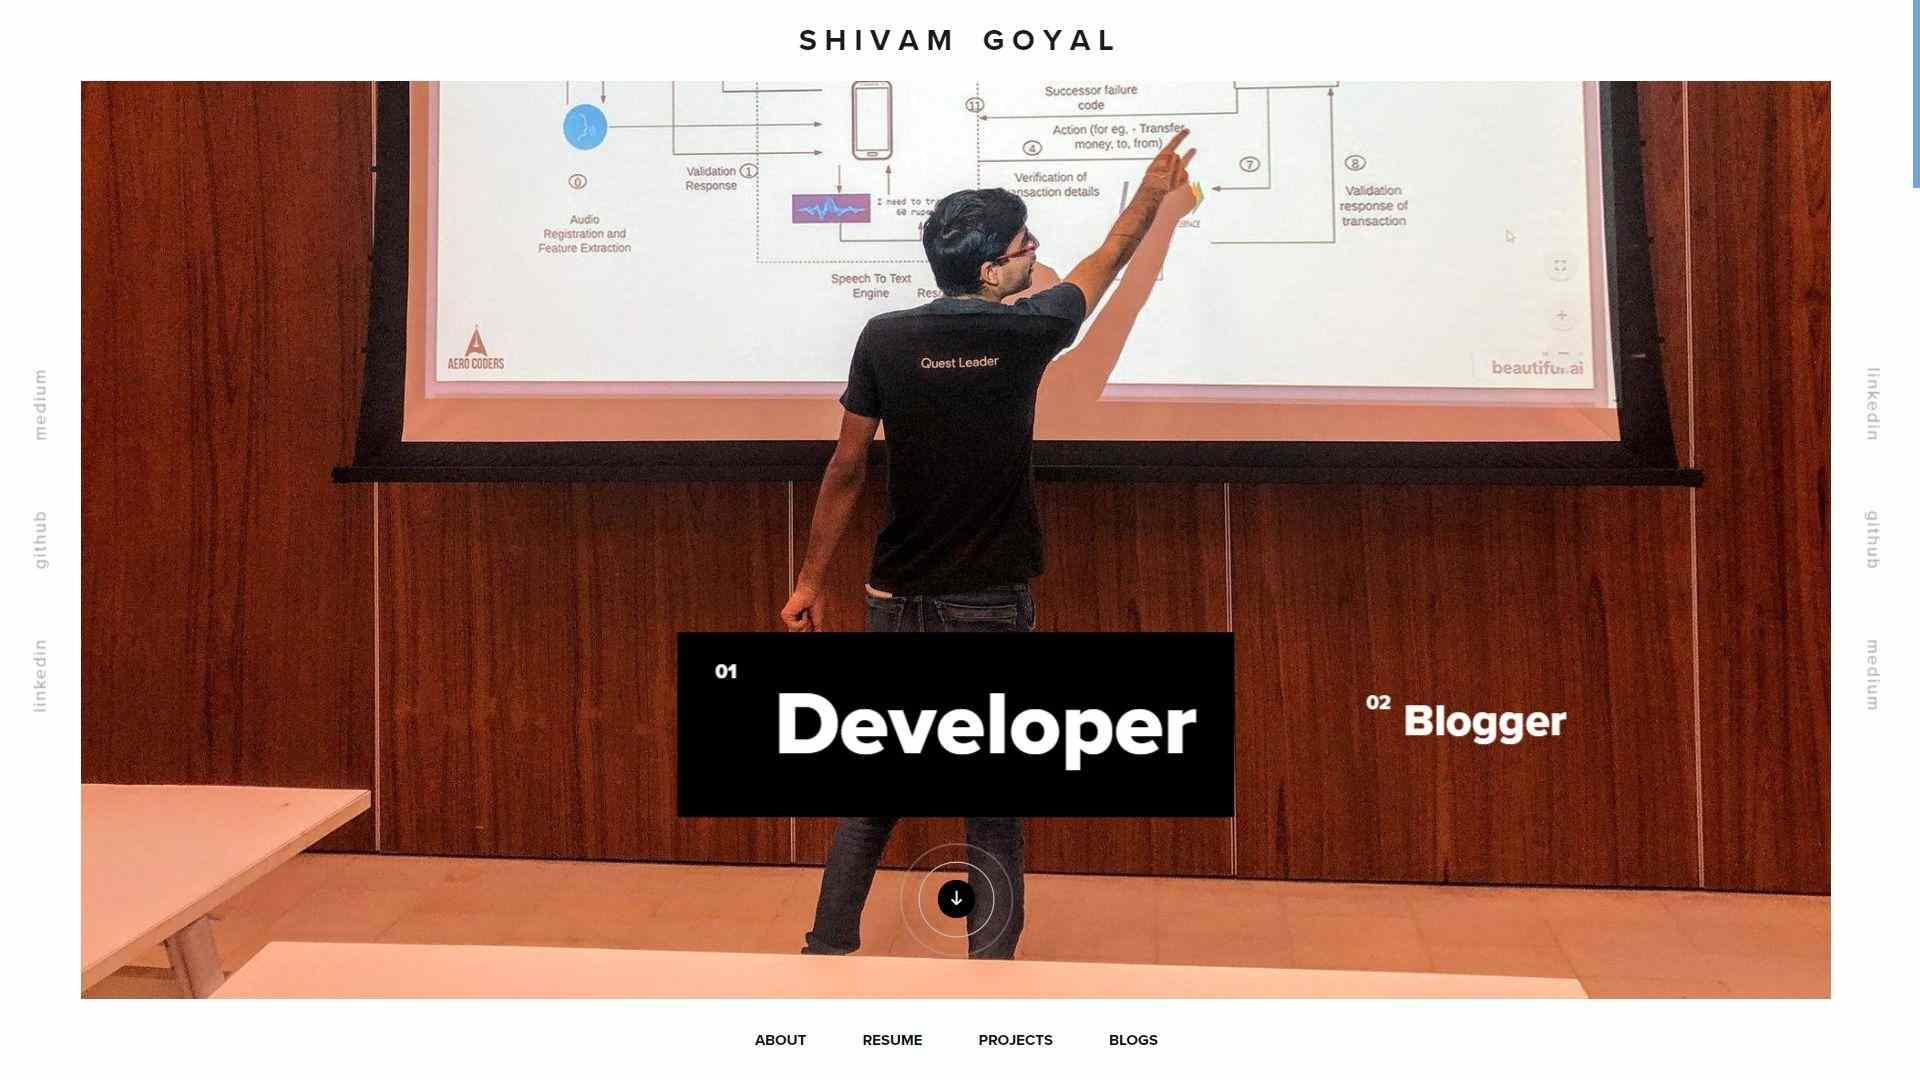
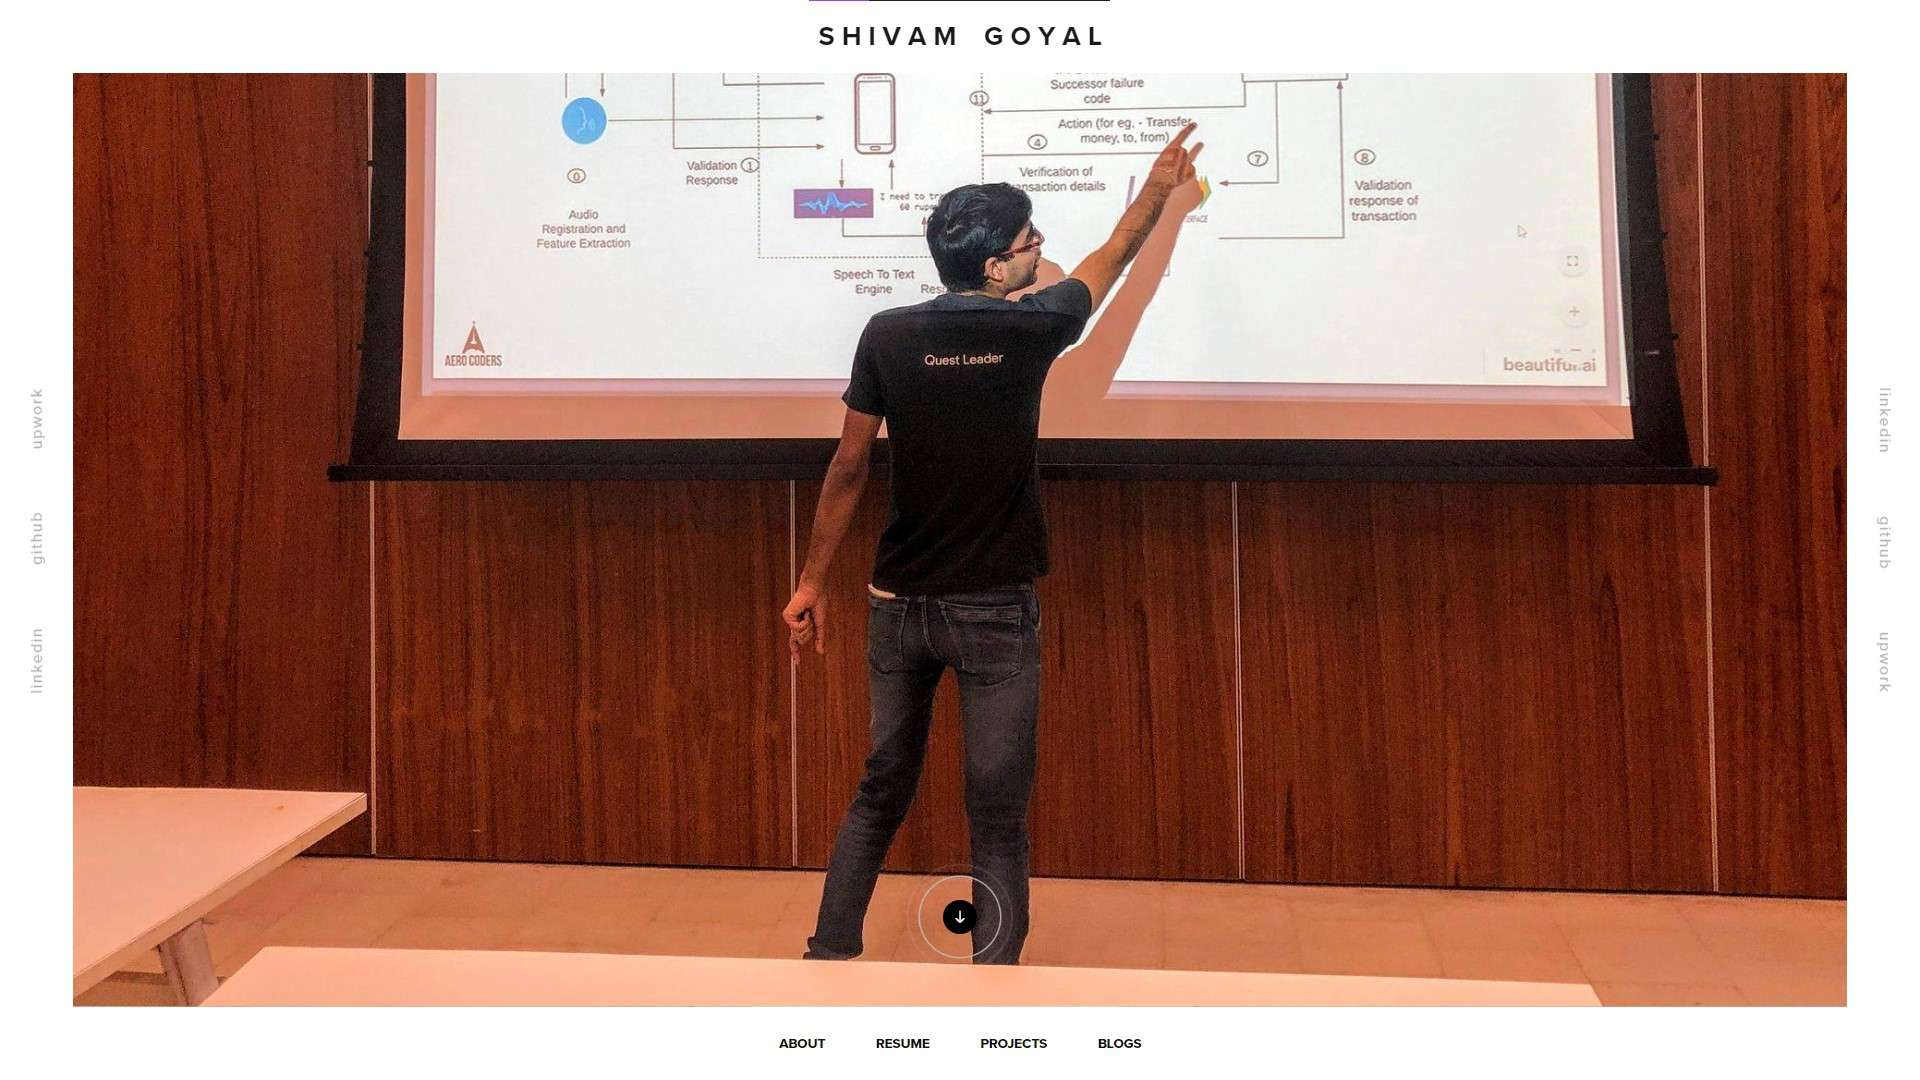
Update Links and projects

diff --git a/public/index.html b/public/index.html
@@ -301,16 +301,16 @@
                   </div>
                   <div class="banner-social-links bsl-left">
                     <div class="social-links-label">
-                      <a href="https://www.linkedin.com/in/shivamgoyal1899/" target="_blank"><span>LinkedIn</span></a>
-                      <a href="https://github.com/ShivamGoyal1899" target="_blank"><span>GitHub</span></a>
-                      <a href="https://www.upwork.com/freelancers/~017cced8ebd251604a" target="_blank"><span>Upwork</span></a>
+                      <a href="https://go.itsshivam.com/linkedin" target="_blank"><span>LinkedIn</span></a>
+                      <a href="https://go.itsshivam.com/github" target="_blank"><span>GitHub</span></a>
+                      <a href="https://go.itsshivam.com/upwork" target="_blank"><span>Upwork</span></a>
                     </div>
                   </div>
                   <div class="banner-social-links bsl-right">
                     <div class="social-links-label">
-                      <a href="https://www.linkedin.com/in/shivamgoyal1899/" target="_blank"><span>LinkedIn</span></a>
-                      <a href="https://github.com/ShivamGoyal1899" target="_blank"><span>GitHub</span></a>
-                      <a href="https://www.upwork.com/freelancers/~017cced8ebd251604a" target="_blank"><span>Upwork</span></a>
+                      <a href="https://go.itsshivam.com/linkedin" target="_blank"><span>LinkedIn</span></a>
+                      <a href="https://go.itsshivam.com/github" target="_blank"><span>GitHub</span></a>
+                      <a href="https://go.itsshivam.com/upwork" target="_blank"><span>Upwork</span></a>
                     </div>
                   </div>
 
@@ -507,7 +507,7 @@
                 </div>
                 <div class="button-container button-5d146f7b89466 center">
                   <a class="button-style1 default"
-                    href="https://drive.google.com/open?id=19XSu9_p4tdLF46yr2tVPlET4oyLwVAPX" target="_blank">
+                    href="https://go.itsshivam.com/resume" target="_blank">
                     <span>Download Resume</span>
                   </a>
                 </div>
@@ -560,7 +560,7 @@
                           <div class="content">
                             <h6 class="h"><span>EcoJourney - Optimum Travel Planner</span></h6>
                           </div>
-                          <a href="https://github.com/ShivamGoyal1899/EcoJourney" target="_blank"></a>
+                          <a href="https://github.itsshivam.com/ecojourney" target="_blank"></a>
                         </div>
                       </div>
                     </article>
@@ -576,7 +576,7 @@
                           <div class="content">
                             <h6 class="h"><span>BHIM UPI Voice Module</span></h6>
                           </div>
-                          <a href="https://github.com/ShivamGoyal1899/BHIM" target="_blank"></a>
+                          <a href="https://github.itsshivam.com/bhim" target="_blank"></a>
                         </div>
                       </div>
                     </article>
@@ -591,7 +591,7 @@
                           <div class="content">
                             <h6 class="h"><span>Orion - Thapar Tech Fest</span></h6>
                           </div>
-                          <a href="https://github.com/ShivamGoyal1899/AppOrionTIET" target="_blank"></a>
+                          <a href="https://github.itsshivam.com/orionApp" target="_blank"></a>
                         </div>
                       </div>
                     </article>
@@ -606,7 +606,7 @@
                           <div class="content">
                             <h6 class="h"><span>Spotify Clone</span></h6>
                           </div>
-                          <a href="https://github.com/ShivamGoyal1899/SpotifyClone" target="_blank"></a>
+                          <a href="https://github.itsshivam.com/spotify" target="_blank"></a>
                         </div>
                       </div>
                     </article>
@@ -621,7 +621,7 @@
                           <div class="content">
                             <h6 class="h"><span>Weather App</span></h6>
                           </div>
-                          <a href="https://github.com/ShivamGoyal1899/WeatherApp" target="_blank"></a>
+                          <a href="https://github.itsshivam.com/easyWeather" target="_blank"></a>
                         </div>
                       </div>
                     </article>
@@ -630,13 +630,13 @@
                         class="post-363 fw-portfolio type-fw-portfolio status-publish has-post-thumbnail hentry fw-portfolio-category-drama">
                         <div class="wrap">
                           <div class="img-block">
-                            <div class="img" style="background-image: url(./images/projects/banners/roboarm.jpg)">
+                            <div class="img" style="background-image: url(./images/projects/banners/roboarm.png)">
                             </div>
                           </div>
                           <div class="content">
                             <h6 class="h"><span>Gesture Controlled Robotic Arm</span></h6>
                           </div>
-                          <a href="https://github.com/ShivamGoyal1899/MiniRoboticArm_GestureRecognition"
+                          <a href="https://github.itsshivam.com/roboticArm"
                             target="_blank"></a>
                         </div>
                       </div>
@@ -646,13 +646,13 @@
                         class="post-363 fw-portfolio type-fw-portfolio status-publish has-post-thumbnail hentry fw-portfolio-category-drama">
                         <div class="wrap">
                           <div class="img-block">
-                            <div class="img" style="background-image: url(./images/projects/banners/movieengine.jpg)">
+                            <div class="img" style="background-image: url(./images/projects/banners/movieengine.png)">
                             </div>
                           </div>
                           <div class="content">
-                            <h6 class="h"><span>Movie Recommendation Engine</span></h6>
+                            <h6 class="h"><span>Movie Recommender</span></h6>
                           </div>
-                          <a href="https://github.com/ShivamGoyal1899/Movie_Recommendation_Engine" target="_blank"></a>
+                          <a href="https://github.itsshivam.com/movieRecommendationEngine" target="_blank"></a>
                         </div>
                       </div>
                     </article>
@@ -662,13 +662,13 @@
                         class="post-363 fw-portfolio type-fw-portfolio status-publish has-post-thumbnail hentry fw-portfolio-category-drama">
                         <div class="wrap">
                           <div class="img-block">
-                            <div class="img" style="background-image: url(./images/projects/banners/creditcard.jpg)">
+                            <div class="img" style="background-image: url(./images/projects/banners/creditcard.png)">
                             </div>
                           </div>
                           <div class="content">
                             <h6 class="h"><span>Credit Card Fraud Detection System</span></h6>
                           </div>
-                          <a href="https://github.com/ShivamGoyal1899/CreditCard_Fraud_Detection_System"
+                          <a href="https://github.itsshivam.com/ccFraudDetection"
                             target="_blank"></a>
                         </div>
                       </div>
@@ -699,7 +699,7 @@
                           <div class="content">
                             <h6 class="h"><span>Website IEI</span></h6>
                           </div>
-                          <a href="https://ieithapar.com" target="_blank"></a>
+                          <a href="https://iei.itsshivam.com" target="_blank"></a>
                         </div>
                       </div>
                     </article>
@@ -742,7 +742,7 @@
                             </div>
                           </div>
                           <div class="content">
-                            <h6 class="h"><span>Canape - Mess Management System</span></h6>
+                            <h6 class="h"><span>Mess Management</span></h6>
                           </div>
                           <a href="https://canapeweb.com" target="_blank"></a>
                         </div>
@@ -754,7 +754,7 @@
             </div>
             <div class="button-container button-5d146f7b89466 center">
               <a class="button-style1 default"
-                href="https://github.com/ShivamGoyal1899" target="_blank">
+                href="https://go.itsshivam.com/github" target="_blank">
                 <span>View More on GitHub</span>
               </a>
             </div>
@@ -861,9 +861,9 @@
       <div class="container">
         <div class="copyright">© 2020 Shivam Goyal</div>
         <div class="social-links-label">
-          <a href="https://www.linkedin.com/in/shivamgoyal1899/" target="_blank"><span>LinkedIn</span></a>
-          <a href="https://github.com/ShivamGoyal1899" target="_blank"><span>GitHub</span></a>
-          <a href="https://www.upwork.com/freelancers/~017cced8ebd251604a" target="_blank"><span>Upwork</span></a>
+          <a href="https://go.itsshivam.com/linkedin" target="_blank"><span>LinkedIn</span></a>
+          <a href="https://go.itsshivam.com/github" target="_blank"><span>GitHub</span></a>
+          <a href="https://go.itsshivam.com/upwork" target="_blank"><span>Upwork</span></a>
         </div>
         <div class="scroll-up-arrow" data-magic-cursor="link"><i
             class="simple-icon-set-up-arrow"></i><span><span></span></span></div>
